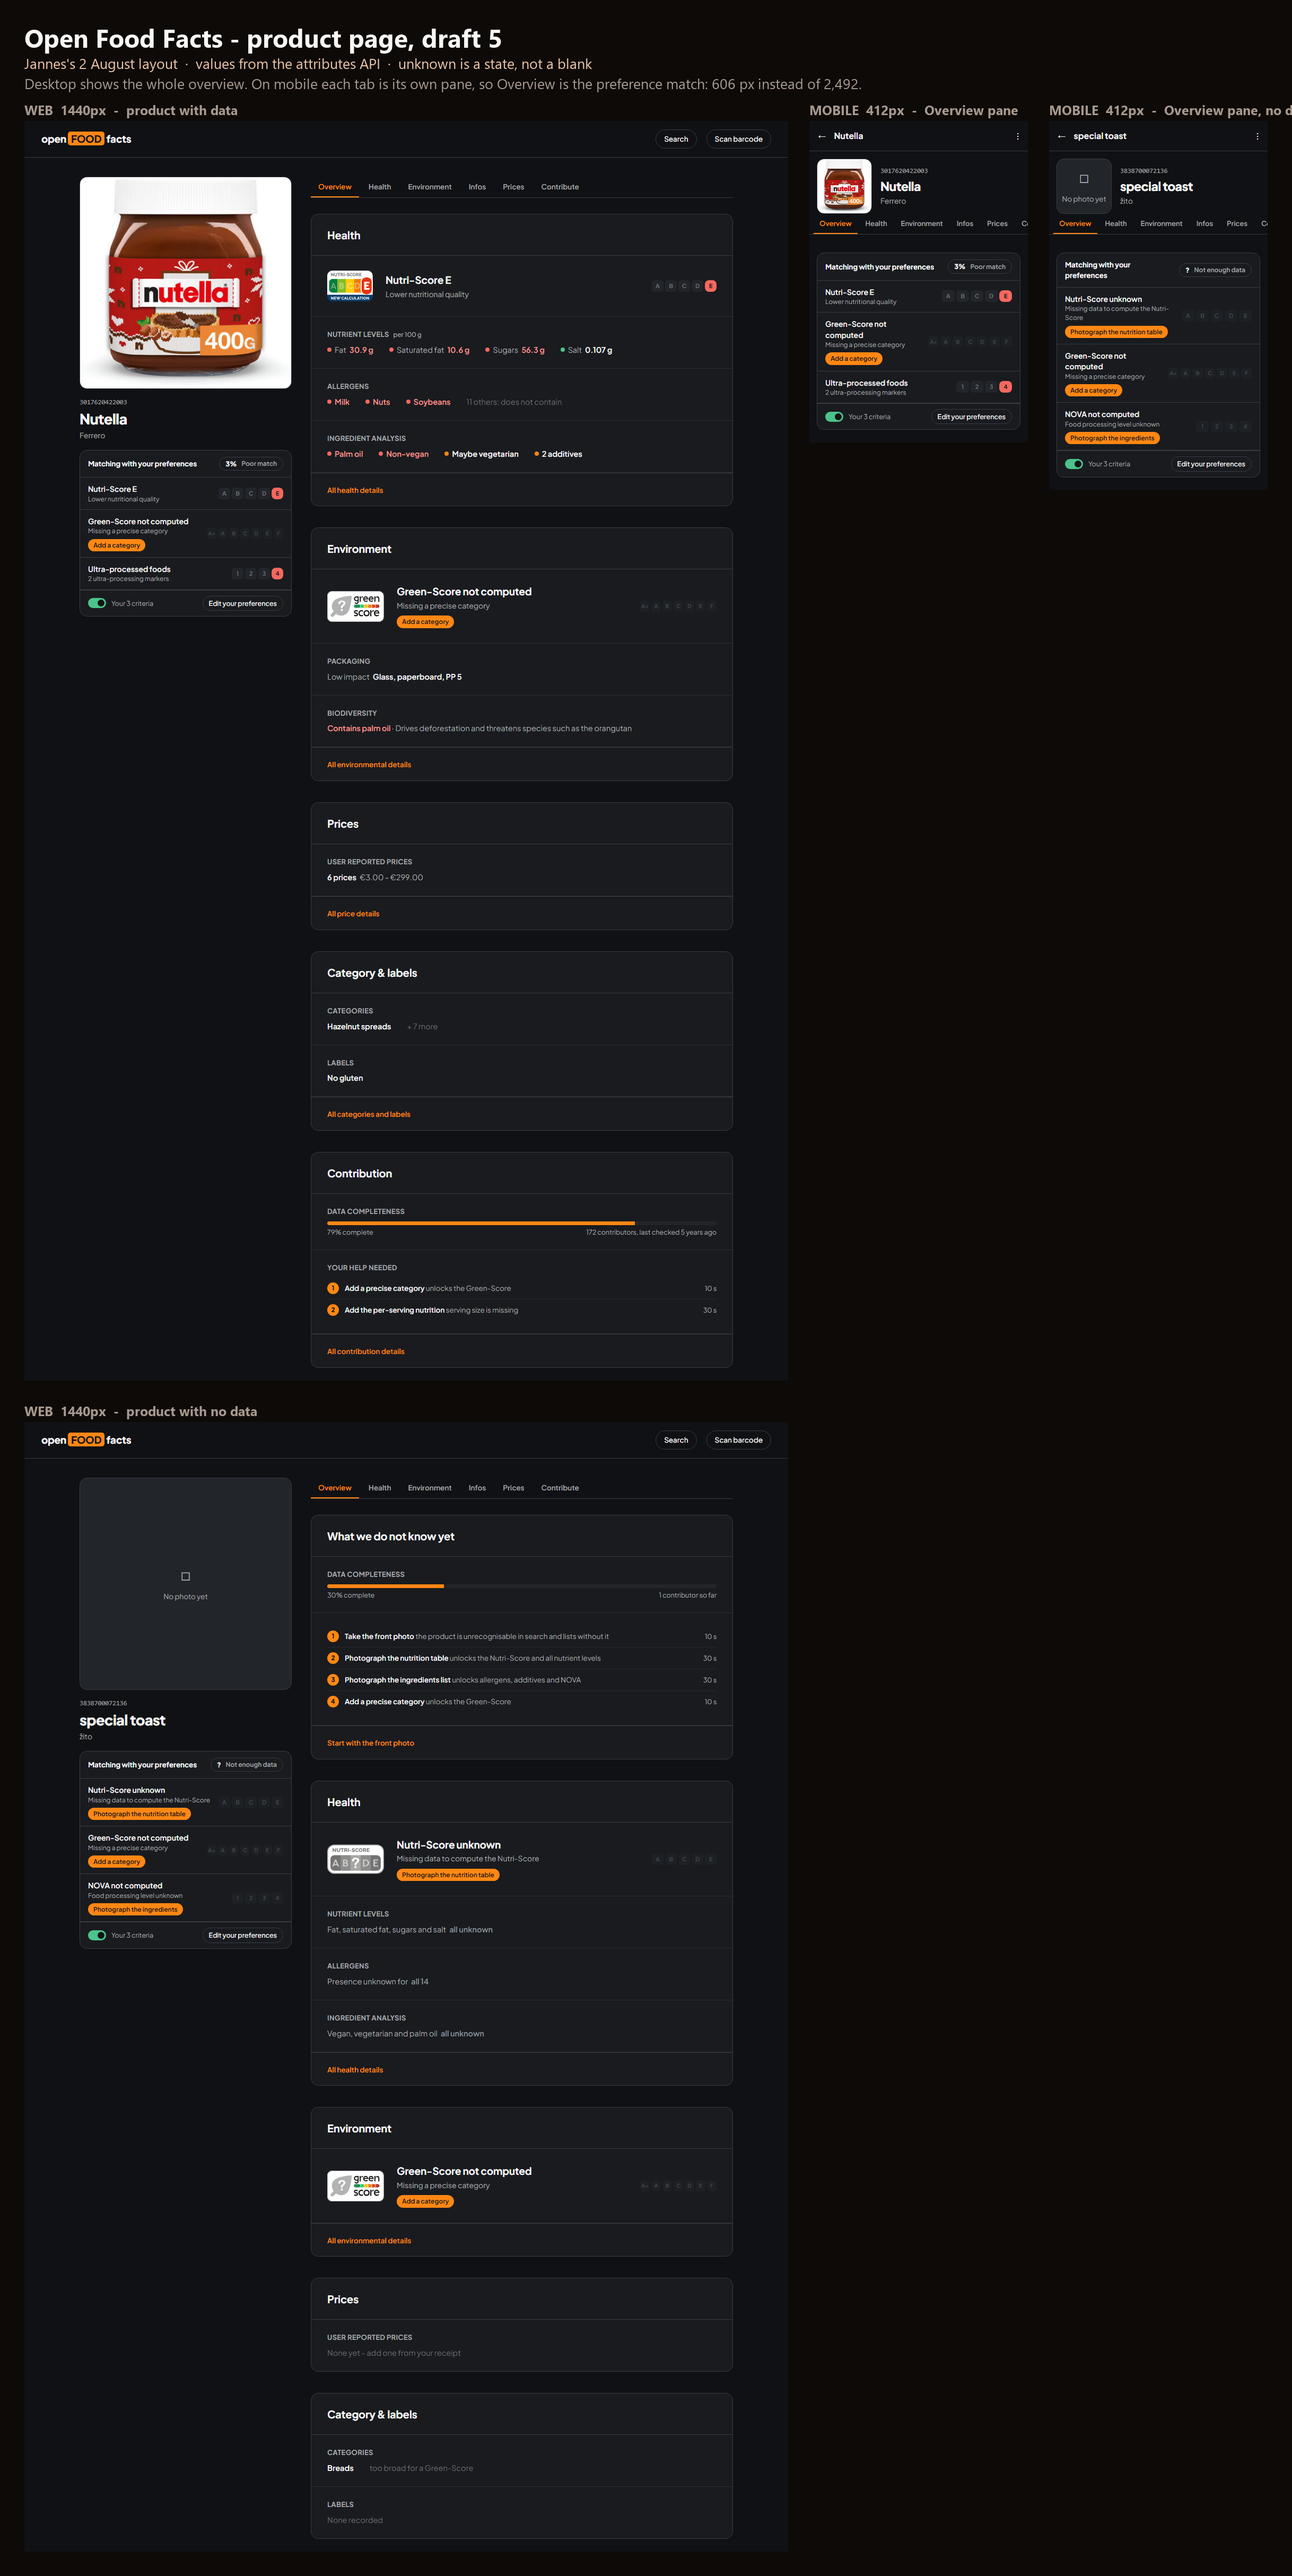
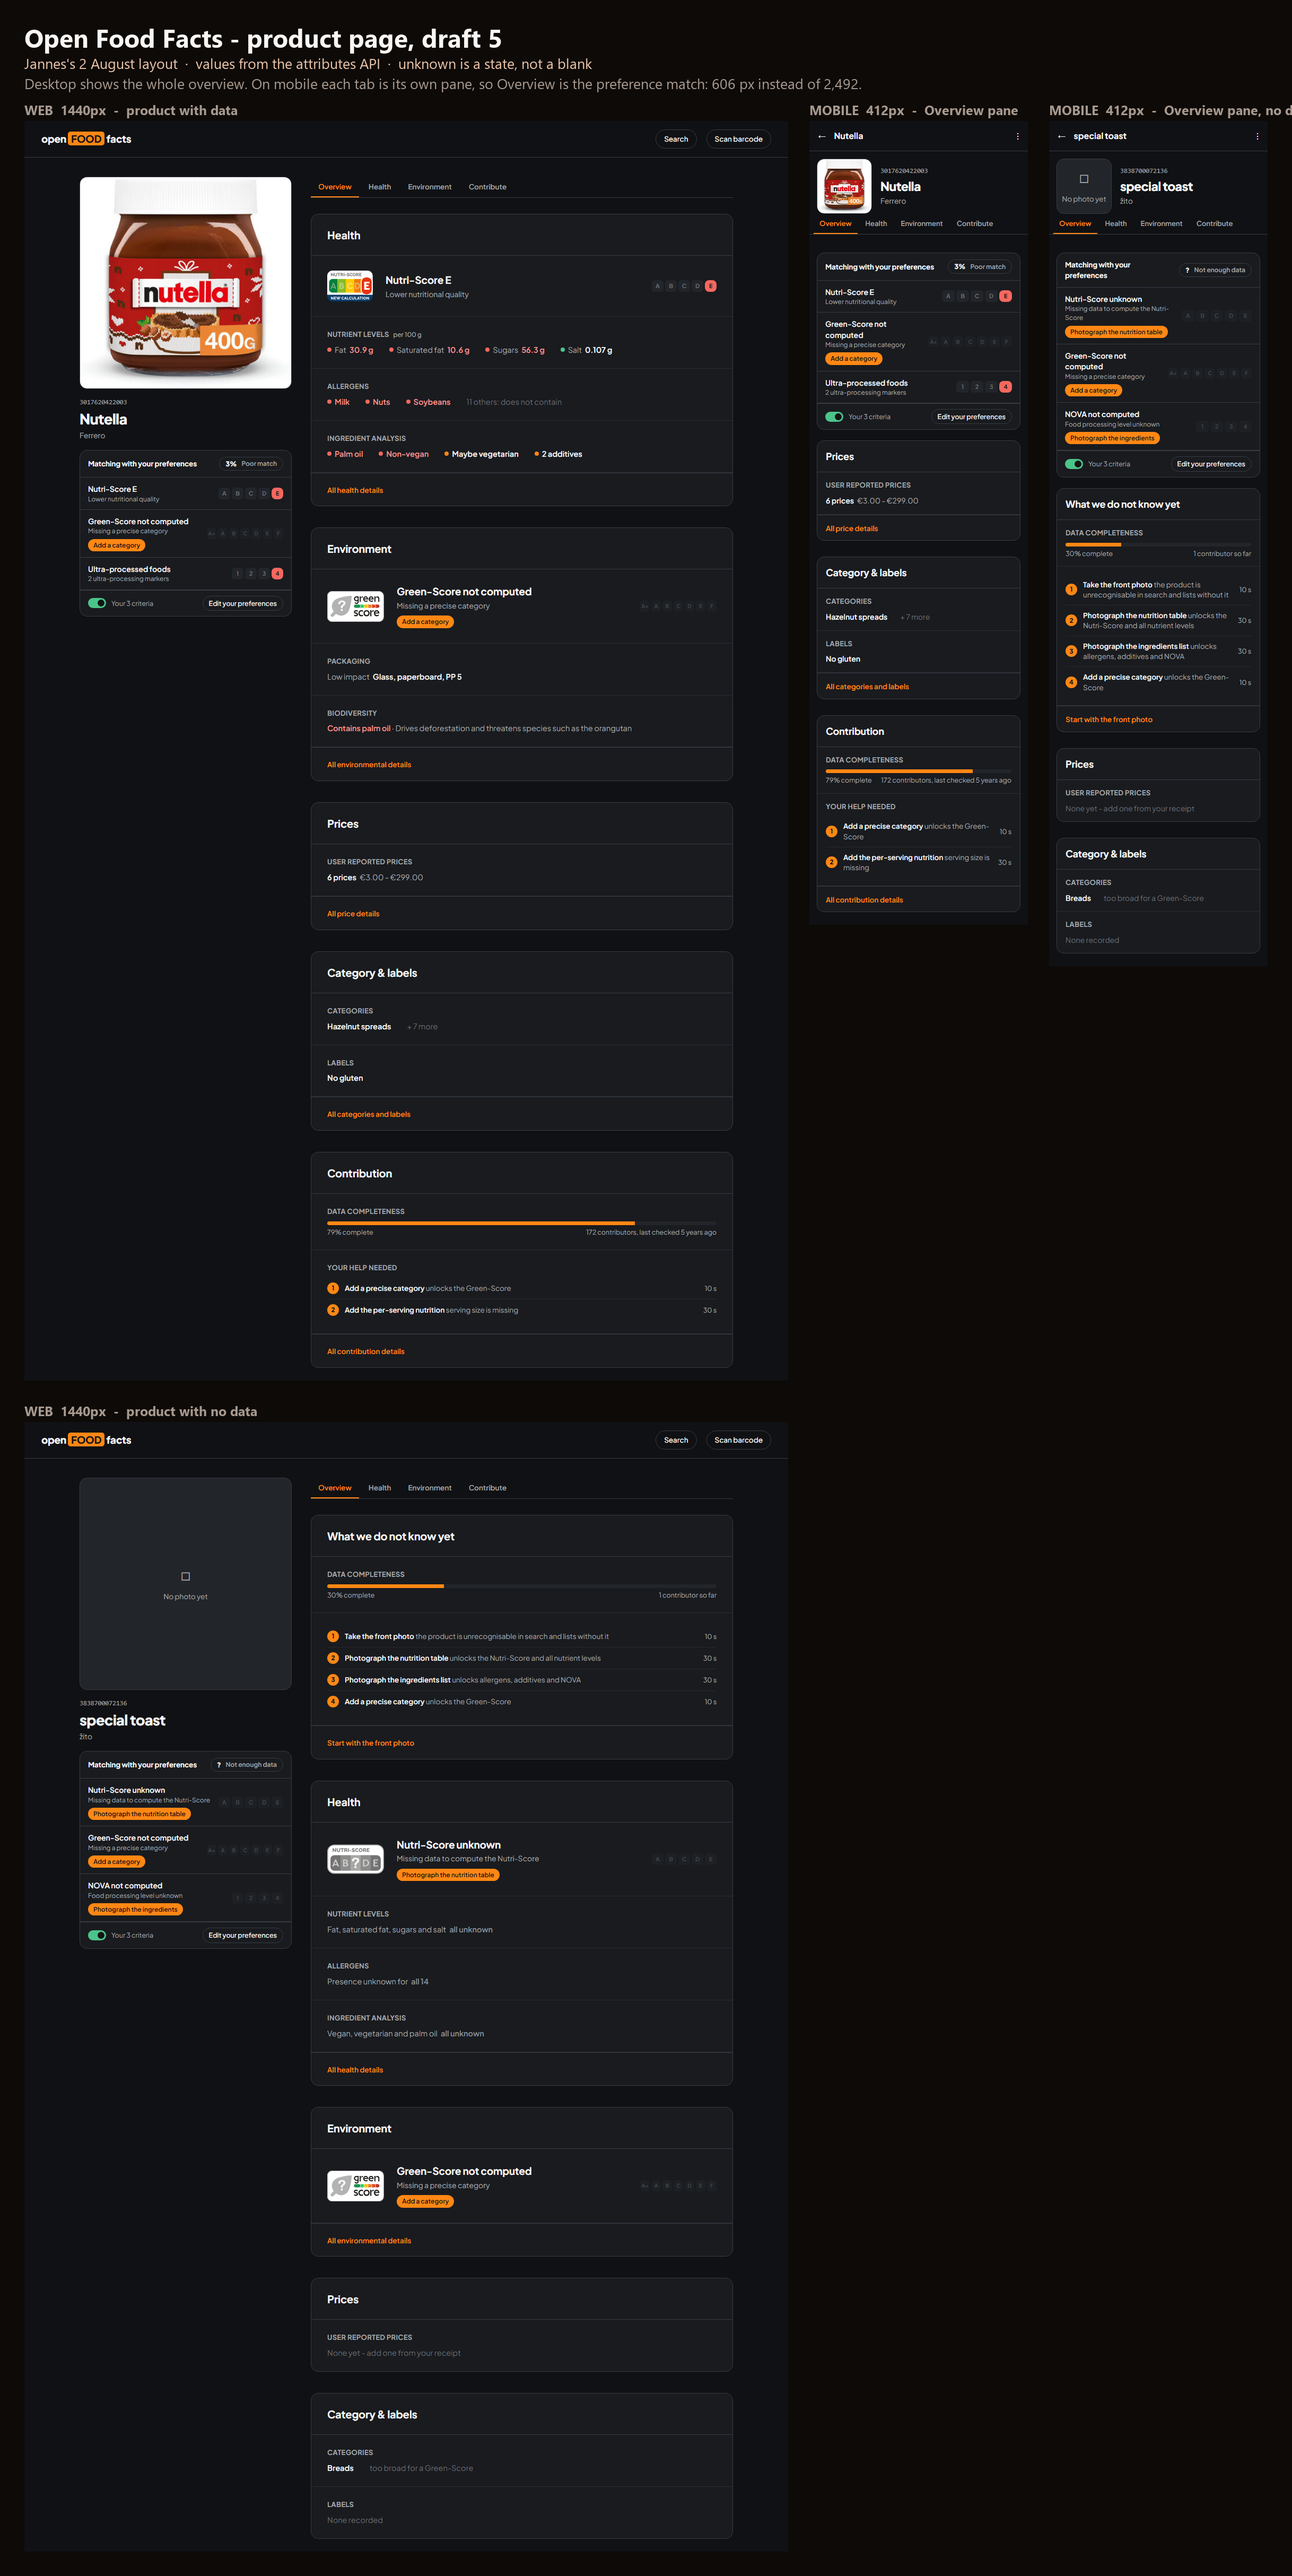
Four tabs on the product strip, and the mobile Overview pane keeps every tile that has no pane

diff --git a/01-product-page/mock.css b/01-product-page/mock.css
@@ -261,17 +261,26 @@
    the content above the tabs: the result of the matching with your preferences. so
    tabs could be moved between the picture and the matching with your preferences".
 
-   So at 412 this file is the OVERVIEW PANE: photo, strip, matching card. The five
-   topic tiles are still in the markup because they are what the Health / Environment
-   / Infos / Prices / Contribute panes render - on desktop they are visible beside the
-   photo column, which is why item 3 is a mobile change and not a page change.
+   So at 412 this file is the OVERVIEW PANE: photo, strip, matching card, then the
+   tiles that no other pane renders.
    `display: contents` dissolves <aside> and <main> so .cols can order their children
    directly; without it the strip cannot get between two boxes that live in different
-   grid items. Measured: 2,492 -> 604 px. */
+   grid items.
+
+   FOUR TABS, Urban 2026-08-18. The first version of this block hid ALL five tiles and
+   grew the strip to six, on the theory that each tile became a pane. Only Health and
+   Environment were ever drawn as panes, so Infos / Prices / Contribute led nowhere at
+   412 and `Category & labels` had no tab at all. Now only the tiles a drawn pane
+   already renders are hidden - `.tile.paned`, i.e. Health and Environment - and the
+   rest stay in the Overview pane. Nothing on the page is unreachable on mobile, and
+   `Contribute` promotes a tile that is visible, the same way `Health` does on desktop. */
 @media (max-width: 700px) {
   .cols > aside, .cols > main { display: contents; }
   .ident  { order: 1; }
   .tabs   { order: 2; }
   .scores { order: 3; }
-  main .tile { display: none; }
+  main .tile.paned { display: none; }   /* only Health + Environment: they have panes */
+  /* `display: contents` puts every tile at the default order 0, i.e. ABOVE the photo.
+     It did not show while all five were hidden; it does now. */
+  main .tile { order: 4; }
 }

diff --git a/01-product-page/product-missing-data.html b/01-product-page/product-missing-data.html
@@ -91,8 +91,6 @@
         <a class="on">Overview</a>
         <a>Health</a>
         <a>Environment</a>
-        <a>Infos</a>
-        <a>Prices</a>
         <a>Contribute</a>
       </nav>
 
@@ -116,7 +114,7 @@
 
       <!-- the hero carries the UNKNOWN icon the server actually returns for this
            barcode - nutriscore-unknown-new-en.svg, not a worst-grade stand-in -->
-      <div class="tile">
+      <div class="tile paned">
         <h3>Health</h3>
         <div class="hero">
           <img src="https://static.openfoodfacts.org/images/attributes/dist/nutriscore-unknown-new-en.svg" alt="">
@@ -141,7 +139,7 @@
         <div class="tilefoot"><a>All health details</a></div>
       </div>
 
-      <div class="tile">
+      <div class="tile paned">
         <h3>Environment</h3>
         <div class="hero">
           <img src="https://static.openfoodfacts.org/images/attributes/dist/green-score-unknown.svg" alt="">

diff --git a/01-product-page/product-nutella.html b/01-product-page/product-nutella.html
@@ -82,14 +82,12 @@
         <a class="on">Overview</a>
         <a>Health</a>
         <a>Environment</a>
-        <a>Infos</a>
-        <a>Prices</a>
         <a>Contribute</a>
       </nav>
 
       <!-- Every tile opens on one hero: the attribute's own icon_url at 58px, its
            title and its description_short. Server output, readable size. -->
-      <div class="tile">
+      <div class="tile paned">
         <h3>Health</h3>
         <div class="hero">
           <img src="https://static.openfoodfacts.org/images/attributes/dist/nutriscore-e-new-en.svg" alt="">
@@ -126,7 +124,7 @@
         <div class="tilefoot"><a>All health details</a></div>
       </div>
 
-      <div class="tile">
+      <div class="tile paned">
         <h3>Environment</h3>
         <div class="hero">
           <img src="https://static.openfoodfacts.org/images/attributes/dist/green-score-unknown.svg" alt="">

diff --git a/02-product-subpages/v2-environment-computed.html b/02-product-subpages/v2-environment-computed.html
@@ -67,8 +67,6 @@
         <a>Overview</a>
         <a>Health</a>
         <a class="on">Environment</a>
-        <a>Infos</a>
-        <a>Prices</a>
         <a>Contribute</a>
       </nav>
 

diff --git a/02-product-subpages/v2-environment.html b/02-product-subpages/v2-environment.html
@@ -67,8 +67,6 @@
         <a>Overview</a>
         <a>Health</a>
         <a class="on">Environment</a>
-        <a>Infos</a>
-        <a>Prices</a>
         <a>Contribute</a>
       </nav>
 

diff --git a/02-product-subpages/v2-health.html b/02-product-subpages/v2-health.html
@@ -67,8 +67,6 @@
         <a>Overview</a>
         <a class="on">Health</a>
         <a>Environment</a>
-        <a>Infos</a>
-        <a>Prices</a>
         <a>Contribute</a>
       </nav>
 
